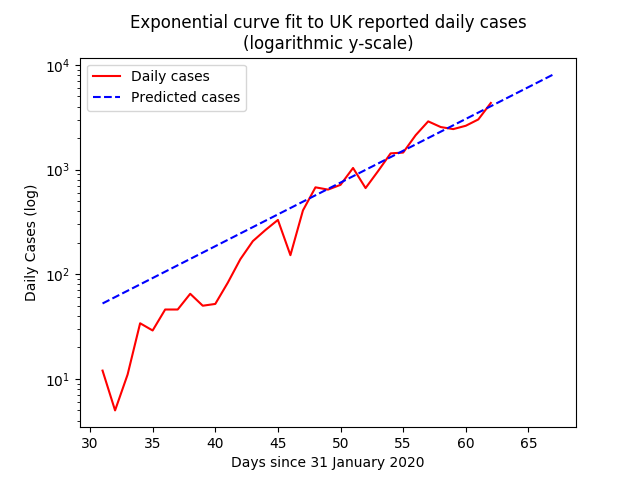
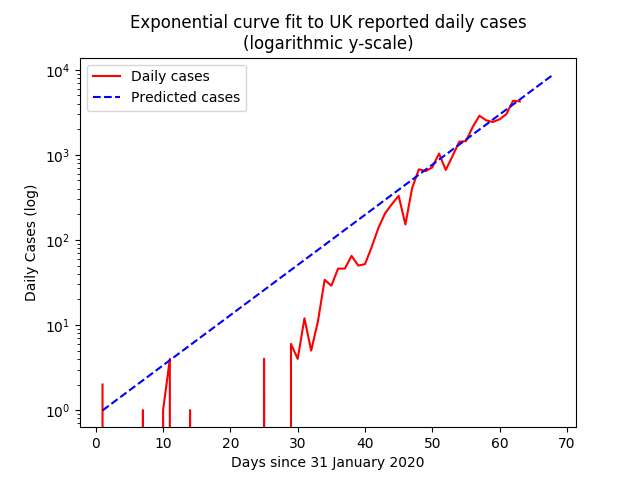
Daily run

diff --git a/README.md b/README.md
@@ -18,16 +18,16 @@ It is the combination that produces the lowest error.
 Output Details
 --------------
 <h3>Exponential function coefficients for new cases</h3>
-[0.68559076 1.1502348 ]
+[0.86671959 1.14534482]
 <h4>Covariance of coefficients</h4>
-[[ 1.26549610e-01 -3.59215570e-03]
- [-3.59215570e-03  1.02333242e-04]]
+[[ 7.88729346e-02 -1.73673300e-03]
+ [-1.73673300e-03  3.83860938e-05]]
 <h3>Exponential function coefficients for daily deaths</h3>
-[6.96579902e-05 1.29024605e+00]
+[2.48642233e-04 1.26271377e+00]
 <h4>Covariance of coefficients</h4>
-[[ 7.66788961e-09 -2.34440786e-06]
- [-2.34440786e-06  7.17525515e-04]] <br/>
+[[ 2.96783119e-08 -2.45495817e-06]
+ [-2.45495817e-06  2.03315216e-04]] <br/>
 <h3>Best offset and factor for third graph</h3>
-7 25%
+7 26%
 <h4>Average Error</h4>
-27.05
+12.59

diff --git a/fit.md b/fit.md
@@ -1,14 +1,14 @@
 <h3>Exponential function coefficients for new cases</h3>
-[0.68559076 1.1502348 ]
+[0.86671959 1.14534482]
 <h4>Covariance of coefficients</h4>
-[[ 1.26549610e-01 -3.59215570e-03]
- [-3.59215570e-03  1.02333242e-04]]
+[[ 7.88729346e-02 -1.73673300e-03]
+ [-1.73673300e-03  3.83860938e-05]]
 <h3>Exponential function coefficients for daily deaths</h3>
-[6.96579902e-05 1.29024605e+00]
+[2.48642233e-04 1.26271377e+00]
 <h4>Covariance of coefficients</h4>
-[[ 7.66788961e-09 -2.34440786e-06]
- [-2.34440786e-06  7.17525515e-04]] <br/>
+[[ 2.96783119e-08 -2.45495817e-06]
+ [-2.45495817e-06  2.03315216e-04]] <br/>
 <h3>Best offset and factor for third graph</h3>
-7 25%
+7 26%
 <h4>Average Error</h4>
-27.05
+12.59
